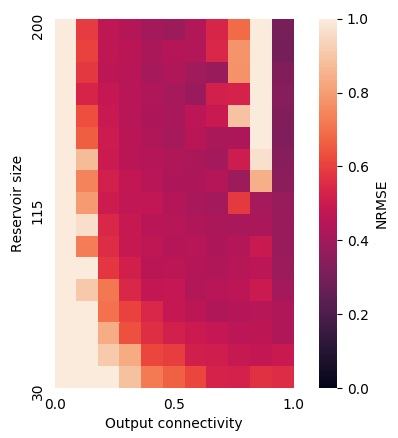
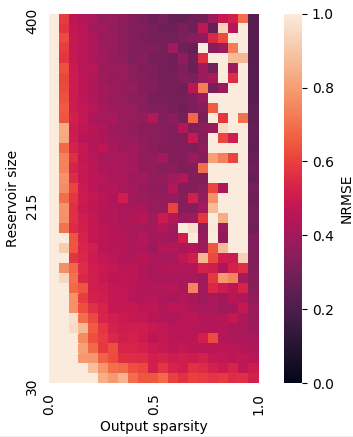
Add new output sparsity versus reservoir size plot.

diff --git a/py/main.py b/py/main.py
@@ -132,8 +132,12 @@ def grid_search_input_sparsity_input_scaling(dataset):
 
 
 def grid_search_partial_visibility(dataset):
-    hidden_nodes = np.arange(30, 200, 10)
-    output_sparsity = np.arange(0.0, 1.1, 0.1)
+    max_nodes = 400
+    min_nodes = 30
+    mid_nodes = (max_nodes + min_nodes) // 2
+
+    hidden_nodes = np.arange(min_nodes, max_nodes, 10)
+    output_sparsity = np.arange(0.0, 1.05, 0.05)
     params = {
         'hidden_nodes': hidden_nodes,
         'w_out_sparsity': output_sparsity
@@ -153,7 +157,7 @@ def grid_search_partial_visibility(dataset):
     y_width = ax.get_ylim()[0]
 
     plt.xticks([0.0, 0.5*x_width, x_width], [0.0, 0.5, 1.0])
-    plt.yticks([0.0, 0.5*y_width, y_width], [200, 115, 30])
+    plt.yticks([0.0, 0.5*y_width, y_width], [max_nodes, mid_nodes, min_nodes])
 
     ax.xaxis.set_ticks_position('none')
     ax.yaxis.set_ticks_position('none')
